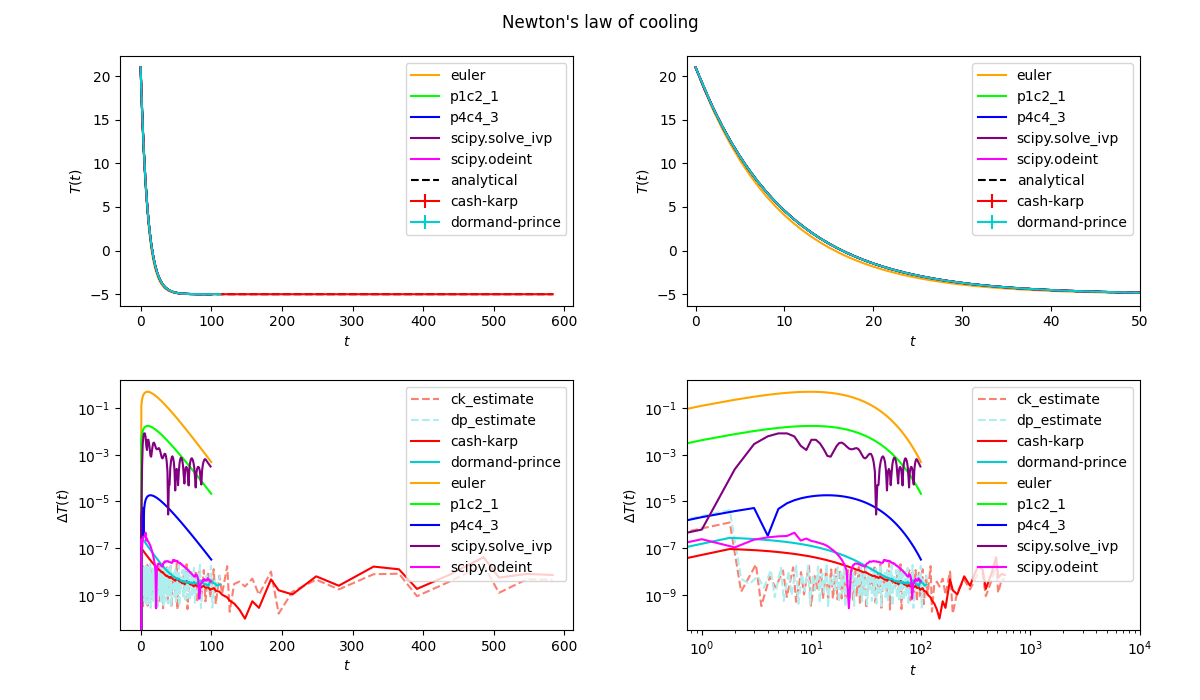
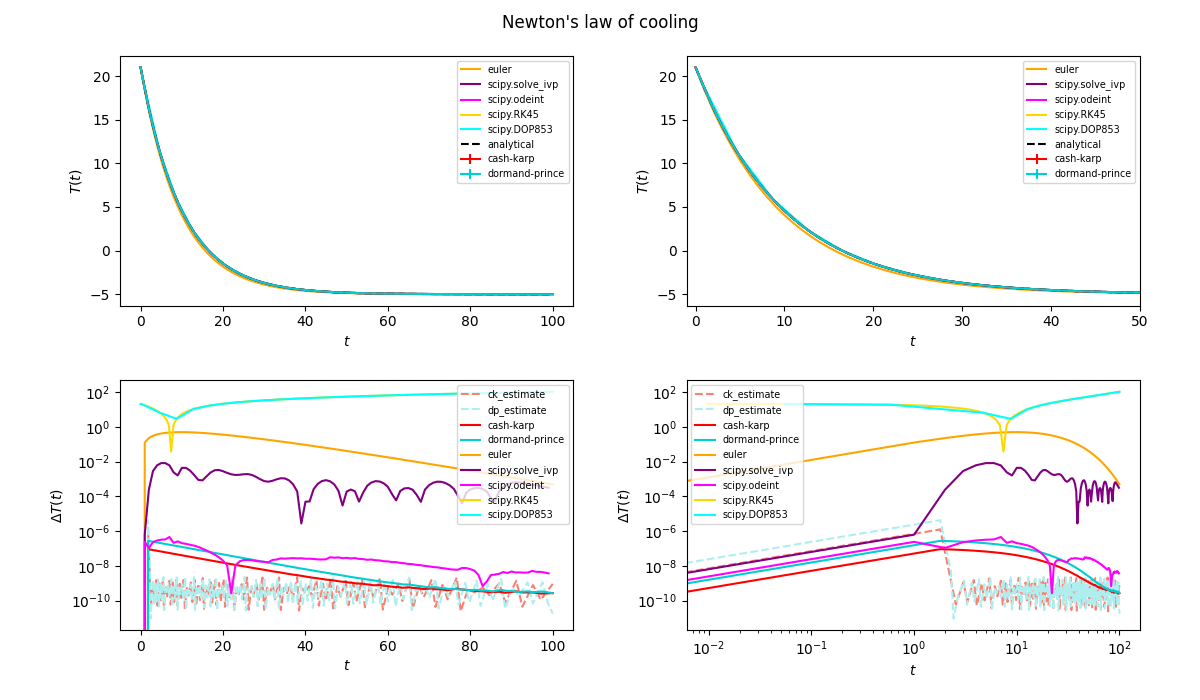
Testing bugg in pece.

diff --git a/examples/newton_cooling/newton_cooling.py b/examples/newton_cooling/newton_cooling.py
@@ -1,6 +1,9 @@
 import numpy as np
 import matplotlib.pyplot as plt
 import scipy.integrate
+# from ODEmethods.methods import rk_methods, predictor, corrector
+# from ODEmethods.rungekutta import RKMethod 
+# from ODEmethods.pece import PECE
 from ODEmethods.methods import rk_methods, predictor, corrector
 from ODEmethods.rungekutta import RKMethod 
 from ODEmethods.pece import PECE
@@ -10,19 +13,19 @@ def heat(t, Temp, par=[0.1, -5.]):
     return (-par[0] * (Temp - par[1]))
 
 def analytical_heat(t, T0, par=[0.1, -5]):
-    return (par[1] + np.exp(-par[0] * t) * (T0 - par[1]))
+    return (par[1] + np.exp(-par[0] * np.array(t)) * (T0 - par[1]))
 
 par=[0.1,-5.]
 
 # RK methods
 problem_rk = RKMethod(rk_methods["euler"], heat, par)
-rk1 = problem_rk.run(x0=0, y0=21, init_step=1.)
+rk1 = problem_rk.run(x0=0, xf=100., y0=21, init_step=1.)
 
 problem_rk.method = rk_methods["cash_karp"]
-rk2 = problem_rk.run(x0=0, y0=21, init_step=1., adaptive=True, tolerance=10e-9)
+rk2 = problem_rk.run(x0=0, xf=100., y0=21, init_step=1., adaptive=True, tolerance=1e-9)
 
 problem_rk.method = rk_methods["dormand_prince"]
-rk3 = problem_rk.run(x0=0, y0=21, init_step=1., adaptive=True, tolerance=10e-9)
+rk3 = problem_rk.run(x0=0, xf=100., y0=21, init_step=1., adaptive=True, tolerance=1e-9)
 
 # PECE methods
 problem_pc = PECE(predictor[0], corrector[0], heat, par)
@@ -38,67 +41,90 @@ sc1 = scipy.integrate.solve_ivp(heat, t_span=(0, 100), y0=[21], t_eval=sct)
 sc2 = scipy.integrate.odeint(heat, t=sct, y0=[21], tfirst=True)
 sc2 = np.transpose(sc2)[0]
 
+sc3_solver = scipy.integrate.RK45(heat, 0, [21], t_bound=100., atol=1e-9, rtol=1e-9)
+sc4_solver = scipy.integrate.DOP853(heat, 0, [21], t_bound=100., atol=1e-9, rtol=1e-9)
+def scipy_run(sc_solver):
+    sc = [[],[]]
+    while True:
+        try:
+            sc_solver.step()
+        except Exception as e:
+            print(e)
+            break
+        sc[0].append(sc_solver.t)
+        sc[1].append(sc_solver.y)
+    return sc
+sc3 = scipy_run(sc3_solver)
+sc4 = scipy_run(sc4_solver)
+
 # Script for plotting graphs
 fig = plt.figure()
 plt.suptitle("Newton's law of cooling")
 fig.set_size_inches(12, 7)
 
 plt.subplot(2, 2, 1)
-plt.errorbar(rk2[0], rk2[:,1], yerr=rk2[:,2], label='cash-karp', color='red')
-plt.errorbar(rk3[0], rk3[:,1], yerr=rk3[:,2], label='dormand-prince', color='darkturquoise')
-plt.plot(rk1[0], rk1[:,1], label='euler', color='orange')
-plt.plot(pc1[0], pc1[:,1], label='p1c2_1', color='lime')
-plt.plot(pc2[0], pc2[:,1], label='p4c4_3', color='blue')
+plt.errorbar(rk2[0], rk2[1], yerr=rk2[2], label='cash-karp', color='red')
+plt.errorbar(rk3[0], rk3[1], yerr=rk3[2], label='dormand-prince', color='darkturquoise')
+plt.plot(rk1[0], rk1[1], label='euler', color='orange')
+# plt.plot(pc1[0], pc1[:,1], label='p1c2_1', color='lime')
+# plt.plot(pc2[0], pc2[:,1], label='p4c4_3', color='blue')
 plt.plot(sc1['t'], sc1['y'][0], label='scipy.solve_ivp', color='purple')
 plt.plot(sct, sc2, label='scipy.odeint', color='fuchsia')
+plt.plot(sc3[0], sc3[1], label='scipy.RK45', color='gold')
+plt.plot(sc4[0], sc4[1], label='scipy.DOP853', color='cyan')
 plt.plot(rk2[0], analytical_heat(rk2[0], 21, par), label='analytical', color='black', linestyle='--')
 plt.xlabel(r'$t$')
 plt.ylabel(r'$T(t)$')
-plt.legend()
+plt.legend(fontsize="x-small")
 
 plt.subplot(2, 2, 2)
-plt.errorbar(rk2[0], rk2[:,1], yerr=rk2[:,2], label='cash-karp', color='red')
-plt.errorbar(rk3[0], rk3[:,1], yerr=rk3[:,2], label='dormand-prince', color='darkturquoise')
-plt.plot(rk1[0], rk1[:,1], label='euler', color='orange')
-plt.plot(pc1[0], pc1[:,1], label='p1c2_1', color='lime')
-plt.plot(pc2[0], pc2[:,1], label='p4c4_3', color='blue')
+plt.errorbar(rk2[0], rk2[1], yerr=rk2[2], label='cash-karp', color='red')
+plt.errorbar(rk3[0], rk3[1], yerr=rk3[2], label='dormand-prince', color='darkturquoise')
+plt.plot(rk1[0], rk1[1], label='euler', color='orange')
+# plt.plot(pc1[0], pc1[:,1], label='p1c2_1', color='lime')
+# plt.plot(pc2[0], pc2[:,1], label='p4c4_3', color='blue')
 plt.plot(sc1['t'], sc1['y'][0], label='scipy.solve_ivp', color='purple')
 plt.plot(sct, sc2, label='scipy.odeint', color='fuchsia')
+plt.plot(sc3[0], sc3[1], label='scipy.RK45', color='gold')
+plt.plot(sc4[0], sc4[1], label='scipy.DOP853', color='cyan')
 plt.plot(rk2[0], analytical_heat(rk2[0], 21, par), label='analytical', color='black', linestyle='--')
 plt.xlabel(r'$t$')
 plt.ylabel(r'$T(t)$')
 plt.xlim(-1., 50.)
-plt.legend()
+plt.legend(fontsize="x-small")
 
 plt.subplot(2, 2, 3)
-plt.semilogy(rk2[0], rk2[:,2], label='ck_estimate', color='salmon', linestyle='--')
-plt.semilogy(rk3[0], rk3[:,2], label='dp_estimate', color='paleturquoise', linestyle='--')
-plt.semilogy(rk2[0], np.absolute(rk2[:,1]-analytical_heat(rk2[0], 21, par)), label='cash-karp', color='red')
-plt.semilogy(rk3[0], np.absolute(rk3[:,1]-analytical_heat(rk3[0], 21, par)), label='dormand-prince', color='darkturquoise')
+plt.semilogy(rk2[0], rk2[2], label='ck_estimate', color='salmon', linestyle='--')
+plt.semilogy(rk3[0], rk3[2], label='dp_estimate', color='paleturquoise', linestyle='--')
+plt.semilogy(rk2[0], np.absolute(rk2[1]-analytical_heat(rk2[0], 21, par)), label='cash-karp', color='red')
+plt.semilogy(rk3[0], np.absolute(rk3[1]-analytical_heat(rk3[0], 21, par)), label='dormand-prince', color='darkturquoise')
 plt.semilogy(rk1[0], np.absolute(rk1[1]-analytical_heat(rk1[0], 21, par)), label='euler', color='orange')
-plt.semilogy(pc1[0], np.absolute(pc1[1]-analytical_heat(pc1[0], 21, par)), label='p1c2_1', color='lime')
-plt.semilogy(pc2[0], np.absolute(pc2[1]-analytical_heat(pc2[0], 21, par)), label='p4c4_3', color='blue')
+# plt.semilogy(pc1[0], np.absolute(pc1[1]-analytical_heat(pc1[0], 21, par)), label='p1c2_1', color='lime')
+# plt.semilogy(pc2[0], np.absolute(pc2[1]-analytical_heat(pc2[0], 21, par)), label='p4c4_3', color='blue')
 plt.semilogy(sc1['t'], np.absolute(sc1['y'][0]-analytical_heat(sc1['t'], 21, par)), label='scipy.solve_ivp', color='purple')
 plt.semilogy(sct, np.absolute(sc2-analytical_heat(sct, 21, par)), label='scipy.odeint', color='fuchsia')
+plt.semilogy(sc3[0], np.absolute(sc3[0]-analytical_heat(sc3[0], 21, par)), label='scipy.RK45', color='gold')
+plt.semilogy(sc4[0], np.absolute(sc4[0]-analytical_heat(sc4[0], 21, par)), label='scipy.DOP853', color='cyan')
 plt.xlabel(r'$t$')
 plt.ylabel(r'$\Delta T(t)$')
-plt.legend()
+plt.legend(fontsize="x-small")
 
 plt.subplot(2, 2, 4)
-plt.loglog(rk2[0], rk2[:,2], label='ck_estimate', color='salmon', linestyle='--')
-plt.loglog(rk3[0], rk3[:,2], label='dp_estimate', color='paleturquoise', linestyle='--')
-plt.loglog(rk2[0], np.absolute(rk2[:,1]-analytical_heat(rk2[0], 21, par)), label='cash-karp', color='red')
-plt.loglog(rk3[0], np.absolute(rk3[:,1]-analytical_heat(rk3[0], 21, par)), label='dormand-prince', color='darkturquoise')
+plt.loglog(rk2[0], rk2[2], label='ck_estimate', color='salmon', linestyle='--')
+plt.loglog(rk3[0], rk3[2], label='dp_estimate', color='paleturquoise', linestyle='--')
+plt.loglog(rk2[0], np.absolute(rk2[1]-analytical_heat(rk2[0], 21, par)), label='cash-karp', color='red')
+plt.loglog(rk3[0], np.absolute(rk3[1]-analytical_heat(rk3[0], 21, par)), label='dormand-prince', color='darkturquoise')
 plt.loglog(rk1[0], np.absolute(rk1[1]-analytical_heat(rk1[0], 21, par)), label='euler', color='orange')
-plt.loglog(pc1[0], np.absolute(pc1[1]-analytical_heat(pc1[0], 21, par)), label='p1c2_1', color='lime')
-plt.loglog(pc2[0], np.absolute(pc2[1]-analytical_heat(pc2[0], 21, par)), label='p4c4_3', color='blue')
+# plt.loglog(pc1[0], np.absolute(pc1[1]-analytical_heat(pc1[0], 21, par)), label='p1c2_1', color='lime')
+# plt.loglog(pc2[0], np.absolute(pc2[1]-analytical_heat(pc2[0], 21, par)), label='p4c4_3', color='blue')
 plt.loglog(sc1['t'], np.absolute(sc1['y'][0]-analytical_heat(sc1['t'], 21, par)), label='scipy.solve_ivp', color='purple')
 plt.loglog(sct, np.absolute(sc2-analytical_heat(sct, 21, par)), label='scipy.odeint', color='fuchsia')
+plt.loglog(sc3[0], np.absolute(sc3[0]-analytical_heat(sc3[0], 21, par)), label='scipy.RK45', color='gold')
+plt.loglog(sc4[0], np.absolute(sc4[0]-analytical_heat(sc4[0], 21, par)), label='scipy.DOP853', color='cyan')
 plt.xlabel(r'$t$')
 plt.ylabel(r'$\Delta T(t)$')
-plt.xlim(-1., 10000.)
-plt.legend()
+plt.legend(fontsize="x-small")
 
 plt.subplots_adjust(left=0.1, right=0.95, bottom=0.1, top=0.92, wspace=0.25, hspace=0.3)
-plt.savefig("examples/newton_cooling/newton_cooling.png")
+plt.savefig("newton_cooling.png")
 plt.show()

diff --git a/ODEmethods/pece.py b/ODEmethods/pece.py
@@ -65,7 +65,10 @@ class PECE:
 
         # calculate first couple of elements (RK4)
         PECEstart = RKMethod(self.rk_start, self.function,  self.parameters)
-        x[:pred_len], y[:pred_len] = PECEstart.run(x0, y0, pred_len-1, stepsize, adaptive=False)
+        sol = PECEstart.run(x0, y0, pred_len-1, init_step=stepsize, adaptive=False)
+        print(sol[1].shape)
+        x[:pred_len] = sol[0]
+        y[:pred_len] = sol[1]
 
         for i in range(pred_len, stepnum+1):
             # predict values
